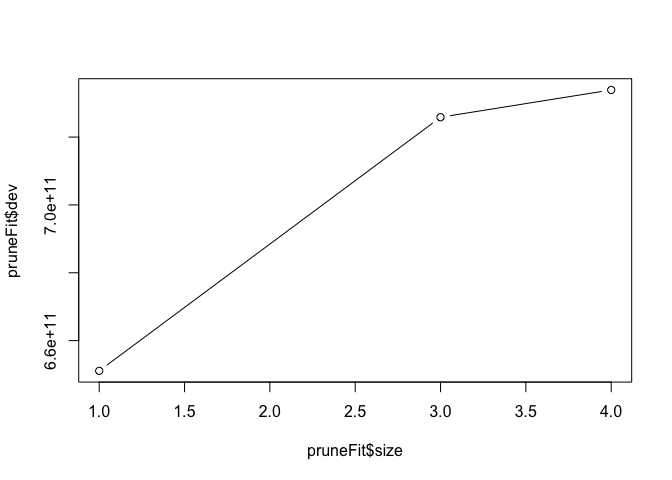
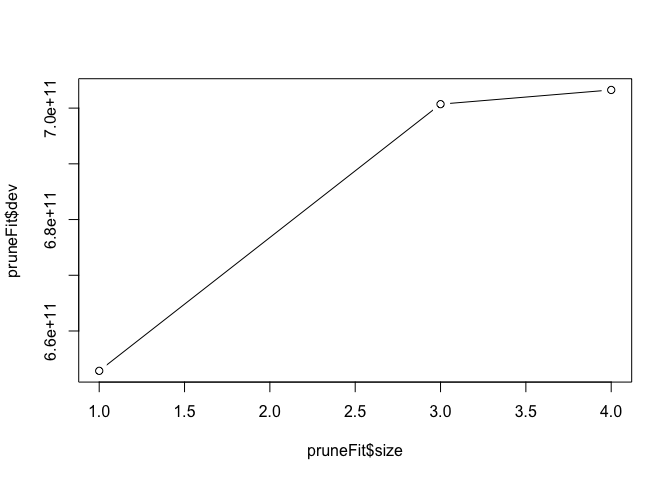
try

diff --git a/online_news_automated_reports.md b/online_news_automated_reports.md
@@ -135,12 +135,23 @@ plot4 <- ggplot(data=news, aes(x = news$global_sentiment_polarity, y = shares)) 
 plot1 + plot2 + plot3 + plot4
 ```
 
+    ## Warning: Use of `news$n_unique_tokens` is discouraged. Use `n_unique_tokens`
+    ## instead.
+
+    ## Warning: Use of `news$rate_positive_words` is discouraged. Use
+    ## `rate_positive_words` instead.
+
+    ## Warning: Use of `news$rate_negative_words` is discouraged. Use
+    ## `rate_negative_words` instead.
+
+    ## Warning: Use of `news$global_sentiment_polarity` is discouraged. Use
+    ## `global_sentiment_polarity` instead.
+
 ![](online_news_automated_reports_files/figure-gfm/unnamed-chunk-6-1.png)<!-- -->
 
 There are six different article subjects. It would be interesting to
 know if some subjects are more popular than others, so we can plot the
-median shares by the different article
-types.
+median shares by the different article types.
 
 ``` r
 news['article_type'] <- ifelse(news$data_channel_is_lifestyle == 1, "Lifestyle",
@@ -153,6 +164,10 @@ news['article_type'] <- ifelse(news$data_channel_is_lifestyle == 1, "Lifestyle",
 ggplot(data=news, aes(x = article_type, y = shares)) + geom_bar(stat = "summary", fun.y = "median") +
     labs(x="Article Type", y="Median Shares", title="Median Shares by Article Type")
 ```
+
+    ## Warning: Ignoring unknown parameters: fun.y
+
+    ## No summary function supplied, defaulting to `mean_se()`
 
 ![](online_news_automated_reports_files/figure-gfm/unnamed-chunk-7-1.png)<!-- -->
 
@@ -193,8 +208,8 @@ summary(treeFit)
     ## -160500.0   -2326.0   -1839.0       0.0    -539.3  528800.0
 
 ``` r
-pruneFit <- cv.tree(treeFit, K=10
-                  #,K=nrow(newsTrain)-1
+pruneFit <- cv.tree(treeFit,
+                  K=nrow(newsTrain)-1
                   )
 
 
@@ -218,7 +233,7 @@ fitControl <- trainControl(## 10-fold CV
                            method = "repeatedcv",
                            number = 10,
                            ## repeated ten times
-                           #repeats = 5
+                           repeats = 5
                            )
 
 boostedFit <- train(shares ~ ., data = newsTrain, 
@@ -237,28 +252,104 @@ boostedFit$bestTune
 boostedFit$results
 ```
 
-    ##   shrinkage interaction.depth n.minobsinnode n.trees     RMSE    Rsquared
-    ## 1       0.1                 1             10      50 12787.06 0.002239089
-    ## 4       0.1                 2             10      50 13259.59 0.003979211
-    ## 7       0.1                 3             10      50 13098.10 0.005671162
-    ## 2       0.1                 1             10     100 12931.49 0.002839257
-    ## 5       0.1                 2             10     100 13309.11 0.005426788
-    ## 8       0.1                 3             10     100 13341.68 0.004671738
-    ## 3       0.1                 1             10     150 13132.89 0.003653945
-    ## 6       0.1                 2             10     150 13332.41 0.007237420
-    ## 9       0.1                 3             10     150 13426.22 0.005180677
-    ##        MAE   RMSESD  RsquaredSD    MAESD
-    ## 1 3886.600 13303.39 0.004092164 1218.030
-    ## 4 3975.508 13091.00 0.004688648 1207.430
-    ## 7 4035.722 13162.96 0.006110268 1234.444
-    ## 2 3942.381 13255.13 0.004885365 1247.489
-    ## 5 4091.771 13016.90 0.008044176 1209.150
-    ## 8 4240.359 13084.65 0.006146358 1232.627
-    ## 3 3965.105 13128.12 0.007156456 1231.636
-    ## 6 4171.479 12998.53 0.011130392 1228.253
-    ## 9 4394.871 13053.37 0.006912189 1292.333
+    ##   shrinkage interaction.depth n.minobsinnode n.trees     RMSE   Rsquared
+    ## 1       0.1                 1             10      50 12934.69 0.01657501
+    ## 4       0.1                 2             10      50 13118.17 0.01809484
+    ## 7       0.1                 3             10      50 13050.81 0.02427935
+    ## 2       0.1                 1             10     100 13095.39 0.01429058
+    ## 5       0.1                 2             10     100 13281.27 0.01764274
+    ## 8       0.1                 3             10     100 13262.21 0.01696909
+    ## 3       0.1                 1             10     150 13096.10 0.01339196
+    ## 6       0.1                 2             10     150 13510.93 0.01491678
+    ## 9       0.1                 3             10     150 13461.57 0.01662168
+    ##        MAE   RMSESD RsquaredSD    MAESD
+    ## 1 3928.494 12483.75 0.03507784 1041.924
+    ## 4 3980.116 12328.95 0.02680138 1029.512
+    ## 7 4011.278 12367.78 0.03613895 1036.511
+    ## 2 3990.731 12404.41 0.03006098 1041.272
+    ## 5 4085.441 12299.41 0.02333652 1049.882
+    ## 8 4149.086 12351.84 0.02635892 1044.624
+    ## 3 3984.889 12404.97 0.02800575 1046.104
+    ## 6 4180.347 12225.15 0.02096103 1040.676
+    ## 9 4279.897 12306.35 0.02576599 1054.394
 
+### Linear regression model
 
+Next, we’ll fit a siple multiple linear regression model on train data.
+Summary of the model is printed below.
+
+``` r
+linearfit<-lm(shares~.,data=newsTrain)
+summary(linearfit)
+```
+
+    ## 
+    ## Call:
+    ## lm(formula = shares ~ ., data = newsTrain)
+    ## 
+    ## Residuals:
+    ##    Min     1Q Median     3Q    Max 
+    ## -48890  -3525  -1330    884 666033 
+    ## 
+    ## Coefficients: (2 not defined because of singularities)
+    ##                                 Estimate Std. Error t value Pr(>|t|)    
+    ## (Intercept)                   -4.023e+03  5.977e+03  -0.673 0.500999    
+    ## n_tokens_title                 1.727e+02  1.972e+02   0.876 0.381143    
+    ## n_tokens_content              -1.645e+00  1.480e+00  -1.111 0.266507    
+    ## n_unique_tokens               -4.946e+03  1.313e+04  -0.377 0.706450    
+    ## n_non_stop_words               5.206e+03  1.103e+04   0.472 0.637032    
+    ## n_non_stop_unique_tokens       7.999e+03  1.132e+04   0.707 0.479833    
+    ## num_hrefs                     -6.136e+00  4.632e+01  -0.132 0.894615    
+    ## num_self_hrefs                 2.072e+02  1.284e+02   1.614 0.106642    
+    ## num_imgs                       1.663e+01  6.587e+01   0.253 0.800680    
+    ## num_videos                     1.327e+02  9.279e+01   1.431 0.152698    
+    ## average_token_length          -2.083e+03  1.608e+03  -1.295 0.195424    
+    ## num_keywords                  -1.426e+02  2.610e+02  -0.546 0.584962    
+    ## data_channel_is_lifestyle     -8.412e+02  2.835e+03  -0.297 0.766756    
+    ## data_channel_is_entertainment -1.367e+03  1.825e+03  -0.749 0.454033    
+    ## data_channel_is_bus           -1.185e+02  2.729e+03  -0.043 0.965359    
+    ## data_channel_is_socmed        -1.247e+03  2.649e+03  -0.471 0.638026    
+    ## data_channel_is_tech           9.283e+02  2.687e+03   0.345 0.729769    
+    ## data_channel_is_world          1.736e+03  2.735e+03   0.635 0.525717    
+    ## kw_min_min                    -2.697e+01  9.672e+00  -2.788 0.005351 ** 
+    ## kw_max_min                    -4.747e-01  4.734e-01  -1.003 0.316123    
+    ## kw_avg_min                     6.337e+00  3.306e+00   1.917 0.055416 .  
+    ## kw_min_max                    -3.225e-03  8.806e-03  -0.366 0.714267    
+    ## kw_max_max                    -6.517e-03  3.350e-03  -1.945 0.051897 .  
+    ## kw_avg_max                    -6.832e-03  5.872e-03  -1.163 0.244777    
+    ## kw_min_avg                    -5.994e-01  5.444e-01  -1.101 0.271034    
+    ## kw_max_avg                    -5.496e-01  2.400e-01  -2.289 0.022161 *  
+    ## kw_avg_avg                     3.988e+00  1.113e+00   3.583 0.000348 ***
+    ## self_reference_min_shares      1.361e-02  7.271e-02   0.187 0.851488    
+    ## self_reference_max_shares      1.767e-03  4.189e-02   0.042 0.966357    
+    ## self_reference_avg_sharess    -2.321e-03  9.900e-02  -0.023 0.981300    
+    ## LDA_00                         5.745e+03  3.129e+03   1.836 0.066530 .  
+    ## LDA_01                         5.695e+02  3.425e+03   0.166 0.867942    
+    ## LDA_02                         1.701e+03  3.230e+03   0.527 0.598408    
+    ## LDA_03                         1.173e+03  3.313e+03   0.354 0.723399    
+    ## LDA_04                                NA         NA      NA       NA    
+    ## global_subjectivity            1.774e+03  5.685e+03   0.312 0.755119    
+    ## global_sentiment_polarity      1.078e+03  1.191e+04   0.091 0.927865    
+    ## global_rate_positive_words    -8.026e+03  4.913e+04  -0.163 0.870257    
+    ## global_rate_negative_words     8.333e+03  9.036e+04   0.092 0.926531    
+    ## rate_positive_words           -1.742e+02  6.982e+03  -0.025 0.980101    
+    ## rate_negative_words                   NA         NA      NA       NA    
+    ## avg_positive_polarity          5.169e+03  9.397e+03   0.550 0.582314    
+    ## min_positive_polarity         -7.749e+03  7.855e+03  -0.986 0.324046    
+    ## max_positive_polarity         -3.815e+02  2.934e+03  -0.130 0.896538    
+    ## avg_negative_polarity          4.712e+03  8.498e+03   0.555 0.579293    
+    ## min_negative_polarity         -5.967e+03  3.072e+03  -1.942 0.052251 .  
+    ## max_negative_polarity         -5.085e+03  7.413e+03  -0.686 0.492835    
+    ## title_subjectivity            -1.029e+03  1.859e+03  -0.554 0.579908    
+    ## title_sentiment_polarity       8.569e+02  1.814e+03   0.472 0.636764    
+    ## abs_title_subjectivity         1.423e+03  2.535e+03   0.561 0.574759    
+    ## abs_title_sentiment_polarity   6.494e+02  2.735e+03   0.237 0.812344    
+    ## ---
+    ## Signif. codes:  0 '***' 0.001 '**' 0.01 '*' 0.05 '.' 0.1 ' ' 1
+    ## 
+    ## Residual standard error: 17530 on 1951 degrees of freedom
+    ## Multiple R-squared:  0.03991,    Adjusted R-squared:  0.01628 
+    ## F-statistic: 1.689 on 48 and 1951 DF,  p-value: 0.002343
 
 ## Model Evaluations
 
@@ -269,8 +360,7 @@ approximation of the model’s performance on unseen data.
 
 ### Regression Tree
 
-Below is the RMSE of the optimal (non-ensemble) regression
-tree:
+Below is the RMSE of the optimal (non-ensemble) regression tree:
 
 ``` r
 treePred <- predict(pruneFitFinal, newdata = dplyr::select(newsTest, -shares))
@@ -281,12 +371,22 @@ sqrt(mean((treePred-newsTest$shares)^2))
 
 ### Boosted Trees
 
-Below is the RMSE of the optimal boosted regression
-tree:
+Below is the RMSE of the optimal boosted regression tree:
 
 ``` r
 boostedTreePred <- predict(boostedFit, newdata = dplyr::select(newsTest, -shares))
 sqrt(mean((boostedTreePred-newsTest$shares)^2))
 ```
 
-    ## [1] 13481.79
+    ## [1] 13551.85
+
+### linear regression
+
+Below is the RMSE of the multiple linear model:
+
+``` r
+linearPred<-predict(linearfit, newdata=dplyr::select(newsTest, -shares))
+sqrt(mean((linearPred-newsTest$shares)^2))
+```
+
+    ## [1] 13401.45
